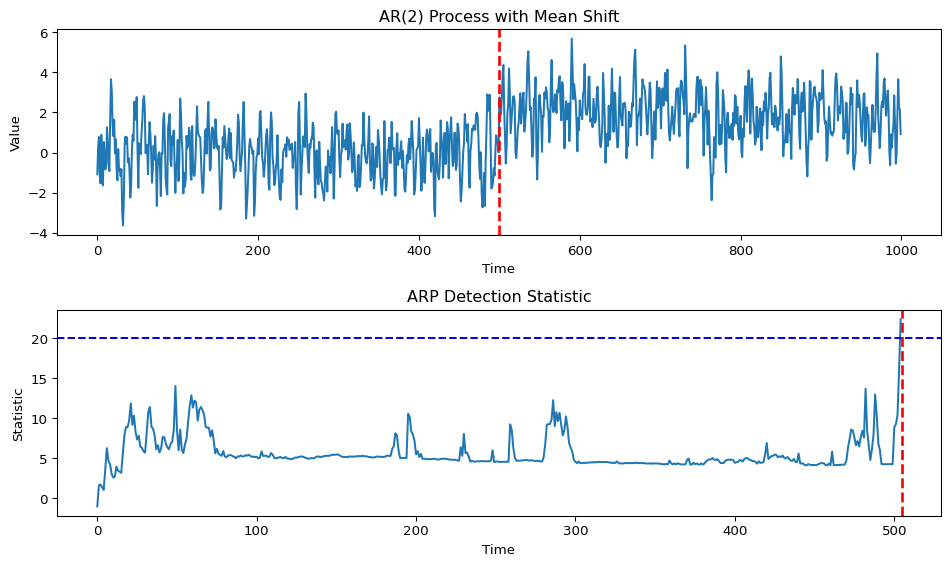
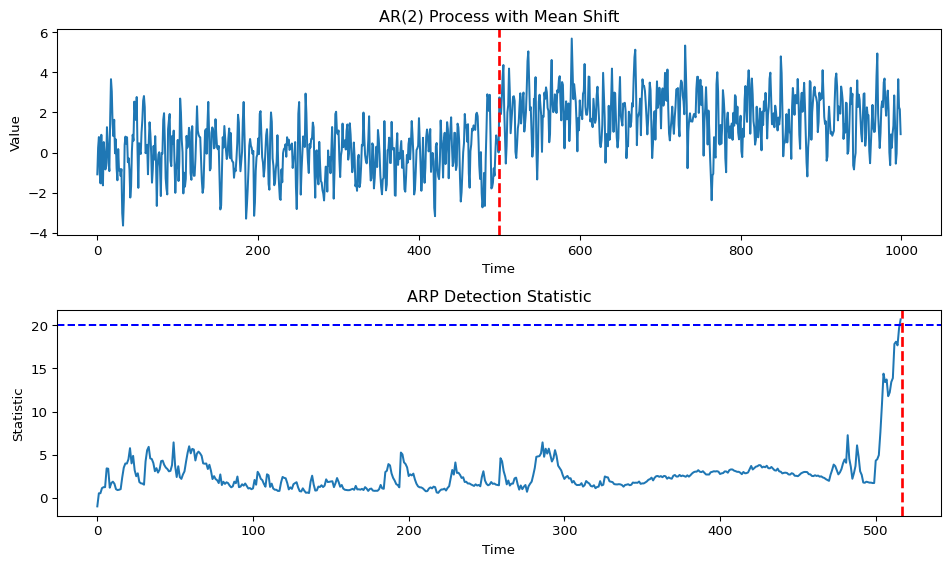
added warning for "under development" for arp pre-change mean unkown case

diff --git a/focus_cpt/focus_cpt/python_wrapper.py b/focus_cpt/focus_cpt/python_wrapper.py
@@ -124,8 +124,16 @@ class Detector:
             anomaly_intensity = np.array([anomaly_intensity], dtype=np.float64)
         if rho is not None:
             rho = np.asarray(rho, dtype=np.float64)
-        if mu0_arp is not None:
-            mu0_arp = np.array([mu0_arp], dtype=np.float64)
+        
+        # ARP detector requires mu0_arp to be specified
+        if type == "arp" and mu0_arp is None:
+            raise ValueError(
+                "The mu0_arp unknown case is still under development, "
+                "please specify a parameter `mu0_arp` when using type='arp'."
+            )
+        
+        # if mu0_arp is not None:
+        #     mu0_arp = np.array([mu0_arp], dtype=np.float64)
 
         self._detector = _focus.Detector(
             type=type,
@@ -399,8 +407,16 @@ def focus_offline(
         anomaly_intensity = np.array([anomaly_intensity], dtype=np.float64)
     if rho is not None:
         rho = np.asarray(rho, dtype=np.float64)
-    if mu0_arp is not None:
-        mu0_arp = np.array([mu0_arp], dtype=np.float64)
+    
+    # ARP detector requires mu0_arp to be specified
+    if type == "arp" and mu0_arp is None:
+        raise ValueError(
+            "The mu0_arp unknown case is still under development, "
+            "please specify a parameter `mu0_arp` when using type='arp'."
+        )
+    
+    # if mu0_arp is not None:
+    #     mu0_arp = np.array([mu0_arp], dtype=np.float64)
 
     result = _focus.focus_offline(
         Y=Y,

diff --git a/focus/src/focus_rcpp_module.cpp b/focus/src/focus_rcpp_module.cpp
@@ -248,6 +248,7 @@ SEXP detector_create(std::string type,
 
       cs = std::make_shared<ARpInfo>(rho_vec, known_prechange, mu0_val);  // <-- pass mu0
     } else {
+      stop("The mu0_arp unknown case is still under development, please specify a parameter `mu0_arp` when using type='arp'.");
       cs = std::make_shared<ARpInfo>(rho_vec, known_prechange);  // <-- defaults to mu0 = 0.0
     }
 

diff --git a/focus_cpt/README.md b/focus_cpt/README.md
@@ -172,7 +172,7 @@ typically **tens to hundreds of times faster**.
     multivariate projections
   - `quantiles`: (Optional) Quantile vector for `type = "npfocus"`
   - `rho`: (Optional) AR coefficients array for `type = "arp"`
-  - `mu0_arp`: (Optional) Pre-change mean for `type = "arp"`
+  - `mu0_arp`: Pre-change mean for `type = "arp"`
   - `pruning_mult`, `pruning_offset`: Pruning parameters (default: 2, 1)
   - `side`: Pruning side - `"right"` or `"left"` (default: `"right"`)
   - Returns: dict-like object with `stat` (2D numpy array where each row
@@ -191,7 +191,7 @@ typically **tens to hundreds of times faster**.
     multivariate projections
   - `quantiles`: (Optional) Quantile vector for `type = "npfocus"`
   - `rho`: (Optional) AR coefficients array for `type = "arp"`
-  - `mu0_arp`: (Optional) Pre-change mean for `type = "arp"`
+  - `mu0_arp`: Pre-change mean for `type = "arp"`
   - `pruning_mult`, `pruning_offset`: Pruning parameters (default: 2, 1)
   - `side`: Pruning side - `"right"` or `"left"` (default: `"right"`)
 
@@ -563,7 +563,8 @@ res = focus_offline(
     threshold=20,
     type="arp",
     family="arp",
-    rho=rho_est
+    rho=rho_est,
+    mu0_arp=0.0
 )
 
 # Plot results
@@ -592,7 +593,7 @@ print(f"True changepoint: {n_pre}")
 
 ![](generate_README_python_files/figure-commonmark/cell-14-output-1.png)
 
-    Detection time: 505
+    Detection time: 517
     Estimated changepoint: 500
     True changepoint: 500
 
@@ -602,7 +603,7 @@ And in the online setting:
 np.random.seed(123)
 
 # Create online ARP detector
-detector = Detector(type="arp", rho=rho_est)
+detector = Detector(type="arp", rho=rho_est, mu0_arp=0.0)
 
 stat_trace = []
 
@@ -623,7 +624,7 @@ plt.ylabel("Statistic")
 plt.show()
 ```
 
-    Detection at time 505 with changepoint estimate τ = 500
+    Detection at time 517 with changepoint estimate τ = 500
 
 ![](generate_README_python_files/figure-commonmark/cell-15-output-2.png)
 
@@ -743,8 +744,8 @@ print(f"Online time:  {online_time:.2f}s")
 print(f"Offline is {online_time / offline_time:.1f}× faster")
 ```
 
-    Offline time: 0.20s
-    Online time:  0.33s
+    Offline time: 0.22s
+    Online time:  0.34s
     Offline is 1.6× faster
 
 ------------------------------------------------------------------------

diff --git a/focus/README.md b/focus/README.md
@@ -449,7 +449,7 @@ system.time(
 ```
 
        user  system elapsed 
-      6.486   0.096   6.582 
+      5.930   0.079   6.010 
 
 ``` r
 # Low-dimensional projection approximation
@@ -462,7 +462,7 @@ system.time(
 ```
 
        user  system elapsed 
-      0.151   0.000   0.150 
+      0.146   0.001   0.146 
 
 ``` r
 # Verify similarity
@@ -613,7 +613,7 @@ system.time({
 ```
 
        user  system elapsed 
-      0.022   0.000   0.021 
+      0.021   0.000   0.021 
 
 ``` r
 plot(res_bern_multi$stat, main = "Bernoulli (multivariate): two streams")
@@ -638,7 +638,7 @@ system.time({
 ```
 
        user  system elapsed 
-      0.002   0.000   0.002 
+      0.003   0.000   0.002 
 
 ``` r
 plot(res_pois$stat, main = "Poisson: change in rate (lambda)")
@@ -885,7 +885,8 @@ res <- focus_offline(
   Y = Y,
   threshold = 20,
   type = "arp",
-  rho = rho_est
+  rho = rho_est,
+  mu0_arp = 0
 )
 
 # Plot results
@@ -911,7 +912,7 @@ par(mfrow = c(1, 1))
 cat("Detection time:", res$detection_time, "\n")
 ```
 
-    Detection time: 510 
+    Detection time: 520 
 
 ``` r
 cat("Estimated changepoint:", res$detected_changepoint, "\n")
@@ -931,7 +932,7 @@ And in the online setting:
 set.seed(123)
 
 # Create online ARP detector
-det <- detector_create("arp", rho = rho_est)
+det <- detector_create("arp", rho = rho_est, mu0_arp = 0)
 
 stat_trace <- numeric(length(Y))
 
@@ -950,7 +951,7 @@ for (i in seq_along(Y)) {
 }
 ```
 
-    Detection at time 511 with changepoint estimate τ = 500 
+    Detection at time 521 with changepoint estimate τ = 500 
 
 ``` r
 # Plot results
@@ -986,7 +987,7 @@ print(time_offline)
 ```
 
        user  system elapsed 
-      0.162   0.025   0.154 
+      0.157   0.020   0.147 
 
 ``` r
 # Benchmark online mode
@@ -1010,7 +1011,7 @@ print(time_online)
 ```
 
        user  system elapsed 
-      0.362   0.000   0.363 
+      0.342   0.000   0.342 
 
 ``` r
 # Verify both produce identical results
@@ -1026,7 +1027,7 @@ speedup <- time_online["elapsed"] / time_offline["elapsed"]
 cat("Offline mode is", round(speedup, 1), "x faster\n")
 ```
 
-    Offline mode is 2.4 x faster
+    Offline mode is 2.3 x faster
 
 ## C++ Integration
 
